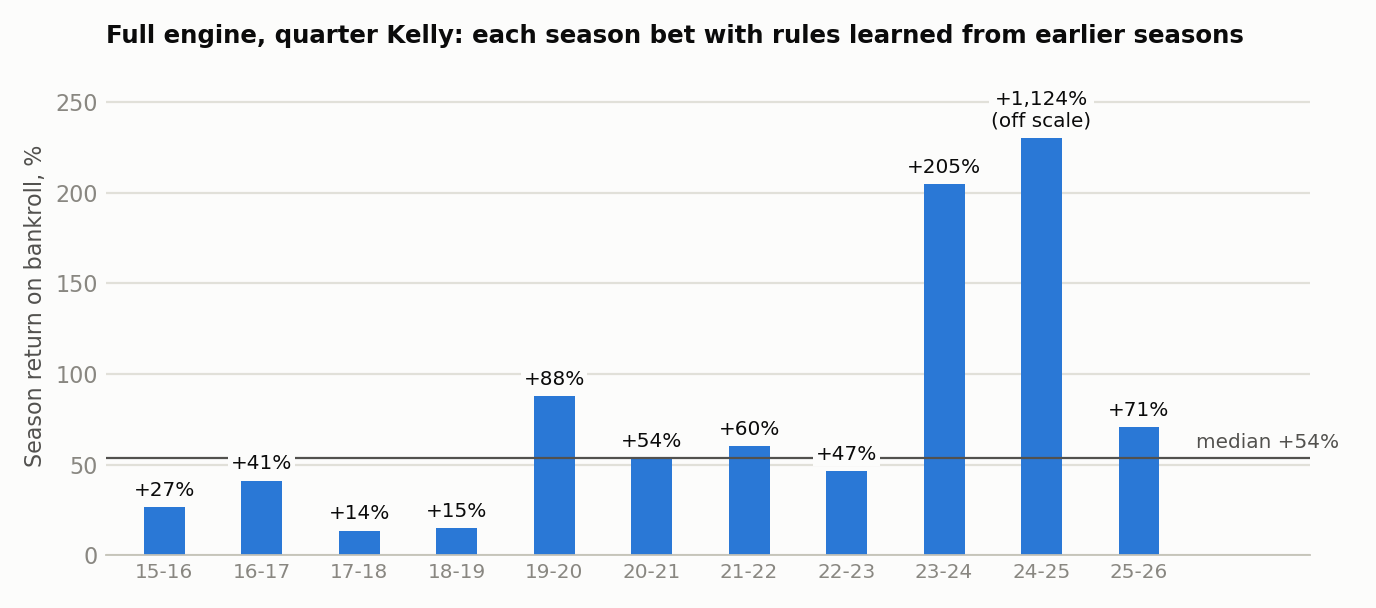
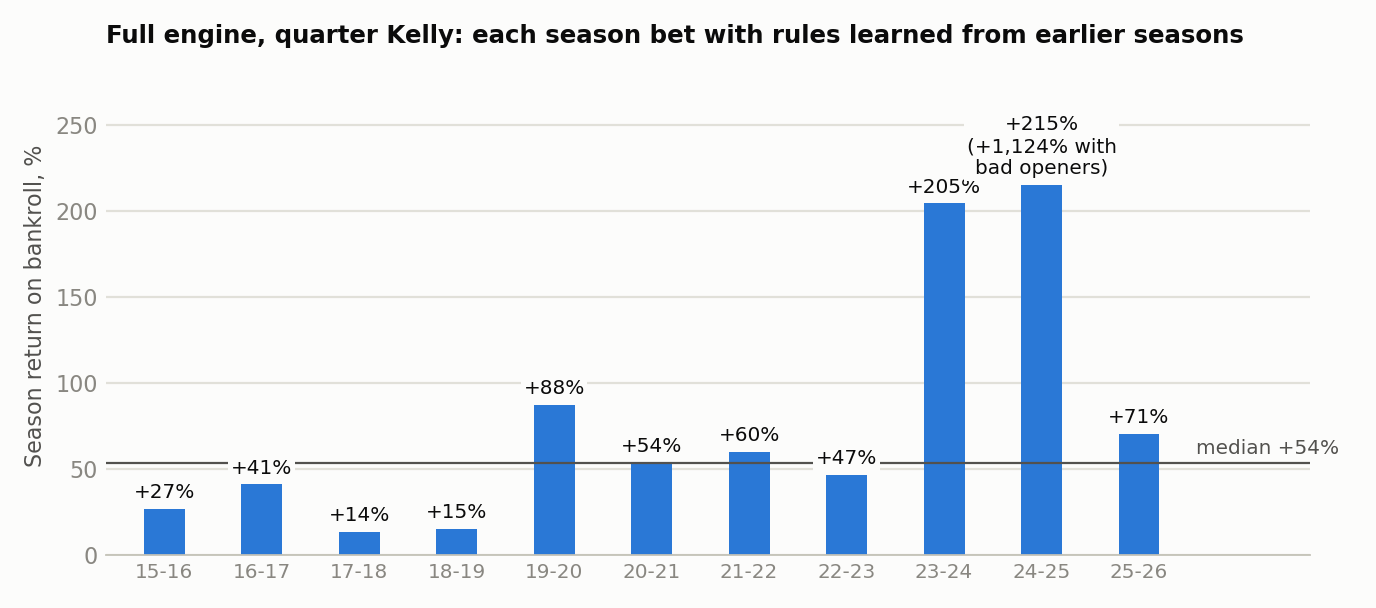
Explain the 2024-25 engine result: mislabeled opening lines, not overfitting
ESPN's opening field held alternate lines for about 40% of totals and 21% of
spreads in October-November 2024. Show the season with those games removed
(+215%, was +1,124%), add corrected rule figures, and redraw the engine chart.

diff --git a/docs/ENGINE.md b/docs/ENGINE.md
@@ -23,7 +23,7 @@ The test seasons are 2015-16 to 2025-26, and nothing from a test season is used 
 | + side | +36.7% | +15.7% | 31% | +10.8% | 325 |
 | All rules | +53.8% | +13.7% | 32% | +10.0% | 314 |
 
-The seasonal rules beat the gap-only engine in 9 of 11 seasons, and all rules together beat it in 8. One season distorts the averages: 2024-25 returned over +1,100%, and its opening lines look stale; without it the all-rules median is +50.2% and the mean +62.0%.
+The seasonal rules beat the gap-only engine in 9 of 11 seasons, and all rules together beat it in 8. One season needed a correction. As first recorded, 2024-25 returned over +1,100%, because a fifth of its bets were graded against opening lines that were never the main line; [the section below](#why-2024-25-looked-so-large) explains what went wrong and why it was a data fault, not overfitting. With those games removed the season returns +215%, and the all-rules median is unchanged at +53.8%. The summary table above is as first recorded: for the all-rules engine the correction lowers ROI per unit staked from +10.0% to +9.7% and bets per season from 314 to 304, and leaves the worst season and the largest drawdown where they were.
 
 Larger stakes raise both the return and the risk. At half Kelly the all-rules median is +99% with a 55% drawdown. At full Kelly it is +153%, with a 75% drawdown and a worst season of -30%.
 
@@ -38,8 +38,25 @@ Larger stakes raise both the return and the risk. At half Kelly the all-rules me
 | 2021-22 | 349 | 57.9% | +7.3% | +60.2% | 32% |
 | 2022-23 | 219 | 58.0% | +12.6% | +46.6% | 20% |
 | 2023-24 | 514 | 54.5% | +12.2% | +204.6% | 18% |
-| 2024-25 | 497 | 61.4% | +14.7% | +1,123.5% | 23% |
+| 2024-25 (mislabeled openers removed) | 396 | 57.8% | +11.2% | +215.2% | 23% |
 | 2025-26 | 585 | 53.5% | +4.5% | +70.6% | 30% |
+
+## Why 2024-25 looked so large
+
+As first recorded, 2024-25 returned +1,124%. That was not overfitting, and it was not the model knowing more than usual: every weight used to bet that season was learned from earlier seasons, and the same models, with one more season of data behind them, had their weakest year in 2025-26. The cause was bad data in the opening lines.
+
+The opening lines for 2024-25 come from a single book, read through ESPN's odds feed. In October and November 2024 the feed's opening field often held an alternate line instead of the main one, and the price attached to it gives this away: a main line opens near -110 on both sides, while these opened anywhere from -450 to +290. By that test 40% of the opening totals and 21% of the opening spreads in those two months were not the main line, against under 1% from December on and none in 2025-26. The mislabeled totals sat 7.5 points from the opening total at a second source, where ordinary ones sit about 1 point away.
+
+A model anchored on how teams have actually been scoring will side against a line that is 7 points off, and it will usually win. The engine placed 101 bets on those openers and won 75% of them, and quarter-Kelly staking compounded the run.
+
+| 2024-25 | Bets | Cover | ROI per unit staked | Season return |
+|---|---|---|---|---|
+| As first recorded | 497 | 61.4% | +14.7% | +1,123.5% |
+| Mislabeled openers removed | 396 | 57.8% | +11.2% | +215.2% |
+
+The season return falls much further than the cover rate because stakes compound. With the same bets and stakes, a 56% cover rate gives a median season of +89% and a 61.4% cover rate gives +514%, so a few extra points of cover multiply the result several times over.
+
+The correction removes the mislabeled games both from the seasons the engine learns from and from the season it bets. It leaves the median season at +53.8% and the worst at +13.7%, lowers the mean season from +158.5% to +76.2%, and moves 2025-26 from +70.6% to +72.9%, since that season's weights were learned partly from 2024-25. A few alternate lines priced close to -110 probably remain in those two months, so +215% is better read as an upper bound for 2024-25 than as a clean figure.
 
 ## What it learned
 
@@ -59,7 +76,7 @@ These are the patterns on the strategies page, except that here each was learned
 
 ## A simpler engine
 
-The simpler engine groups bets by market and gap size. It estimates each group's win rate from earlier seasons, pulls that estimate strongly toward break-even, and bets the groups that still clear it. It stakes less and places 182 bets a season.
+The simpler engine groups bets by market and gap size. It estimates each group's win rate from earlier seasons, pulls that estimate strongly toward break-even, and bets the groups that still clear it. It stakes less and places 182 bets a season. The table is as first recorded and still includes the mislabeled 2024-25 openers, which lift the means far more than the medians: without that season the two-market mean is +19.2% and the median +14.1%.
 
 | | Median season | Mean | Volatility (sd) | Worst | Losing seasons | ROI per unit staked |
 |---|---|---|---|---|---|---|

diff --git a/docs/STRATEGIES.md b/docs/STRATEGIES.md
@@ -26,6 +26,8 @@ Everything here assumes the opening line is actually bet, which has not been sho
 
 The gap is how far the model's number sits from the line, in points.
 
+About 3% of these bets (107 of 3,249) were graded against 2024-25 opening lines that turned out not to be the main line, a fault in the source data that the [engine page](ENGINE.md#why-2024-25-looked-so-large) describes. Without them the spread rule covers 56.4% for +7.7% per bet on 757 bets, and the totals rule 55.2% for +5.3% on 2,385. The tables further down this page still include those bets.
+
 ![cover by gap](../charts/strategy_cover_by_gap.png)
 
 ![cover by month](../charts/strategy_cover_by_month.png)
@@ -63,7 +65,7 @@ A gap of a given size, set against an outcome spread of 12.6 points, implies a c
 
 ### Best in October and November
 
-The model is no more accurate per point early in the season. It earns 0.34 points of result per point of gap in October and November, against 0.41 from December to March. What changes is how far it disagrees with the opener: the spread of that disagreement is 3.2 points early and 2.5 later. As a result 7.3% of early games reach the 2-point threshold, compared with 3.2% later, and they clear it by more.
+The model is no more accurate per point early in the season. It earns 0.34 points of result per point of gap in October and November, against 0.41 from December to March. What changes is how far it disagrees with the opener: the spread of that disagreement is 3.2 points early and 2.5 later. As a result 7.3% of early games reach the 2-point threshold, compared with 3.2% later, and they clear it by more. A small part of the early figure was bad data: without the mislabeled 2024-25 openers, October and November cover 61.1% on 234 bets.
 
 ### April loses (small sample)
 
@@ -120,7 +122,7 @@ April games finish 2.1 points above the opening total on average, against 0.4 in
 
 ### Weak in October and November (unexplained)
 
-One story is that the model has too little history early, but it holds only in part. Bets placed before team ratings existed covered 49.2% (124 bets), but bets placed with ratings available still covered only 53.0% (575 bets).
+One story is that the model has too little history early, but it holds only in part. Bets placed before team ratings existed covered 49.2% (124 bets), but bets placed with ratings available still covered only 53.0% (575 bets). The mislabeled 2024-25 openers flatter these months too, and without them October and November cover 50.7% on 639 bets.
 
 ### February (unexplained)
 
@@ -128,7 +130,7 @@ February is strong in both samples, and the All-Star break is not the reason, si
 
 ## Sizing and thresholds
 
-Staking in proportion to the gap (1 unit at 2 points, capped at 2.5) raises ROI from +9.5% to +11.4% on spreads and from +6.1% to +7.6% on totals. This follows from the gap tables above, because bigger gaps cover more. It does not smooth the seasons much: losing seasons go from 3 of 14 to 4 on spreads, two of them by under half a unit, and from 2 to 1 on totals.
+Staking in proportion to the gap (1 unit at 2 points, capped at 2.5) raises ROI from +9.5% to +11.4% on spreads and from +6.1% to +7.6% on totals (from +7.7% to +8.7% and from +5.3% to +6.6% without the mislabeled 2024-25 openers). This follows from the gap tables above, because bigger gaps cover more. It does not smooth the seasons much: losing seasons go from 3 of 14 to 4 on spreads, two of them by under half a unit, and from 2 to 1 on totals.
 
 A higher threshold gives more per bet and less in total. Spread bets at a gap of 2.5+ cover 60.8% for +16.1%, on 25 bets a season. Totals bets at 3+ cover 59.9% for +14.4%, on 48 a season.
 

diff --git a/README.md b/README.md
@@ -7,12 +7,14 @@ A market-anchored NBA model for spreads and totals, together with the research r
 | | |
 |---|---|
 | +54% | Median season return of the full betting engine at quarter Kelly, across 11 seasons it had not seen, none of which lost. |
-| 56.7% | Share of the engine's bets won, against a break-even of 52.4%, for a return of about +10% per unit staked on 314 bets a season. |
-| 57.4% | Share of spread-rule bets won when the model is 2 or more points from the opening spread, over 800 bets from 2012 to 2026. |
-| 55.6% | Share of totals-rule bets won when the model is 2 or more points from the opening total, over 2,449 bets; it beat break-even in 12 of 14 seasons and won 55.8% on five further seasons it was never tuned on. |
+| 56.1% | Share of the engine's bets won, against a break-even of 52.4%, for a return of about +10% per unit staked on 304 bets a season. |
+| 57.4% | Share of spread-rule bets won when the model is 2 or more points from the opening spread, over 800 bets from 2012 to 2026 (56.4% without the mislabeled openers described below). |
+| 55.6% | Share of totals-rule bets won when the model is 2 or more points from the opening total, over 2,449 bets; it beat break-even in 12 of 14 seasons and won 55.8% on five further seasons it was never tuned on (55.2% on the main sample without the mislabeled openers). |
 | 28-17 | Totals rule this season, at the opening total, through 2026-11-15. |
 
 These are backtests and replays that assume the opening line is bet, which has not been shown live, and at the prices available later in the day the edge disappears. No capital has been deployed on any of it.
+
+One season carries a correction. Opening lines for October and November 2024 were partly mislabeled in the source feed, which had inflated the engine's 2024-25 return to +1,124%; with those games removed it is +215%, and the median season is unchanged. The [engine page](docs/ENGINE.md#why-2024-25-looked-so-large) shows why this was a data fault and not overfitting.
 
 ![season return by season](charts/engine_by_season.png)
 
